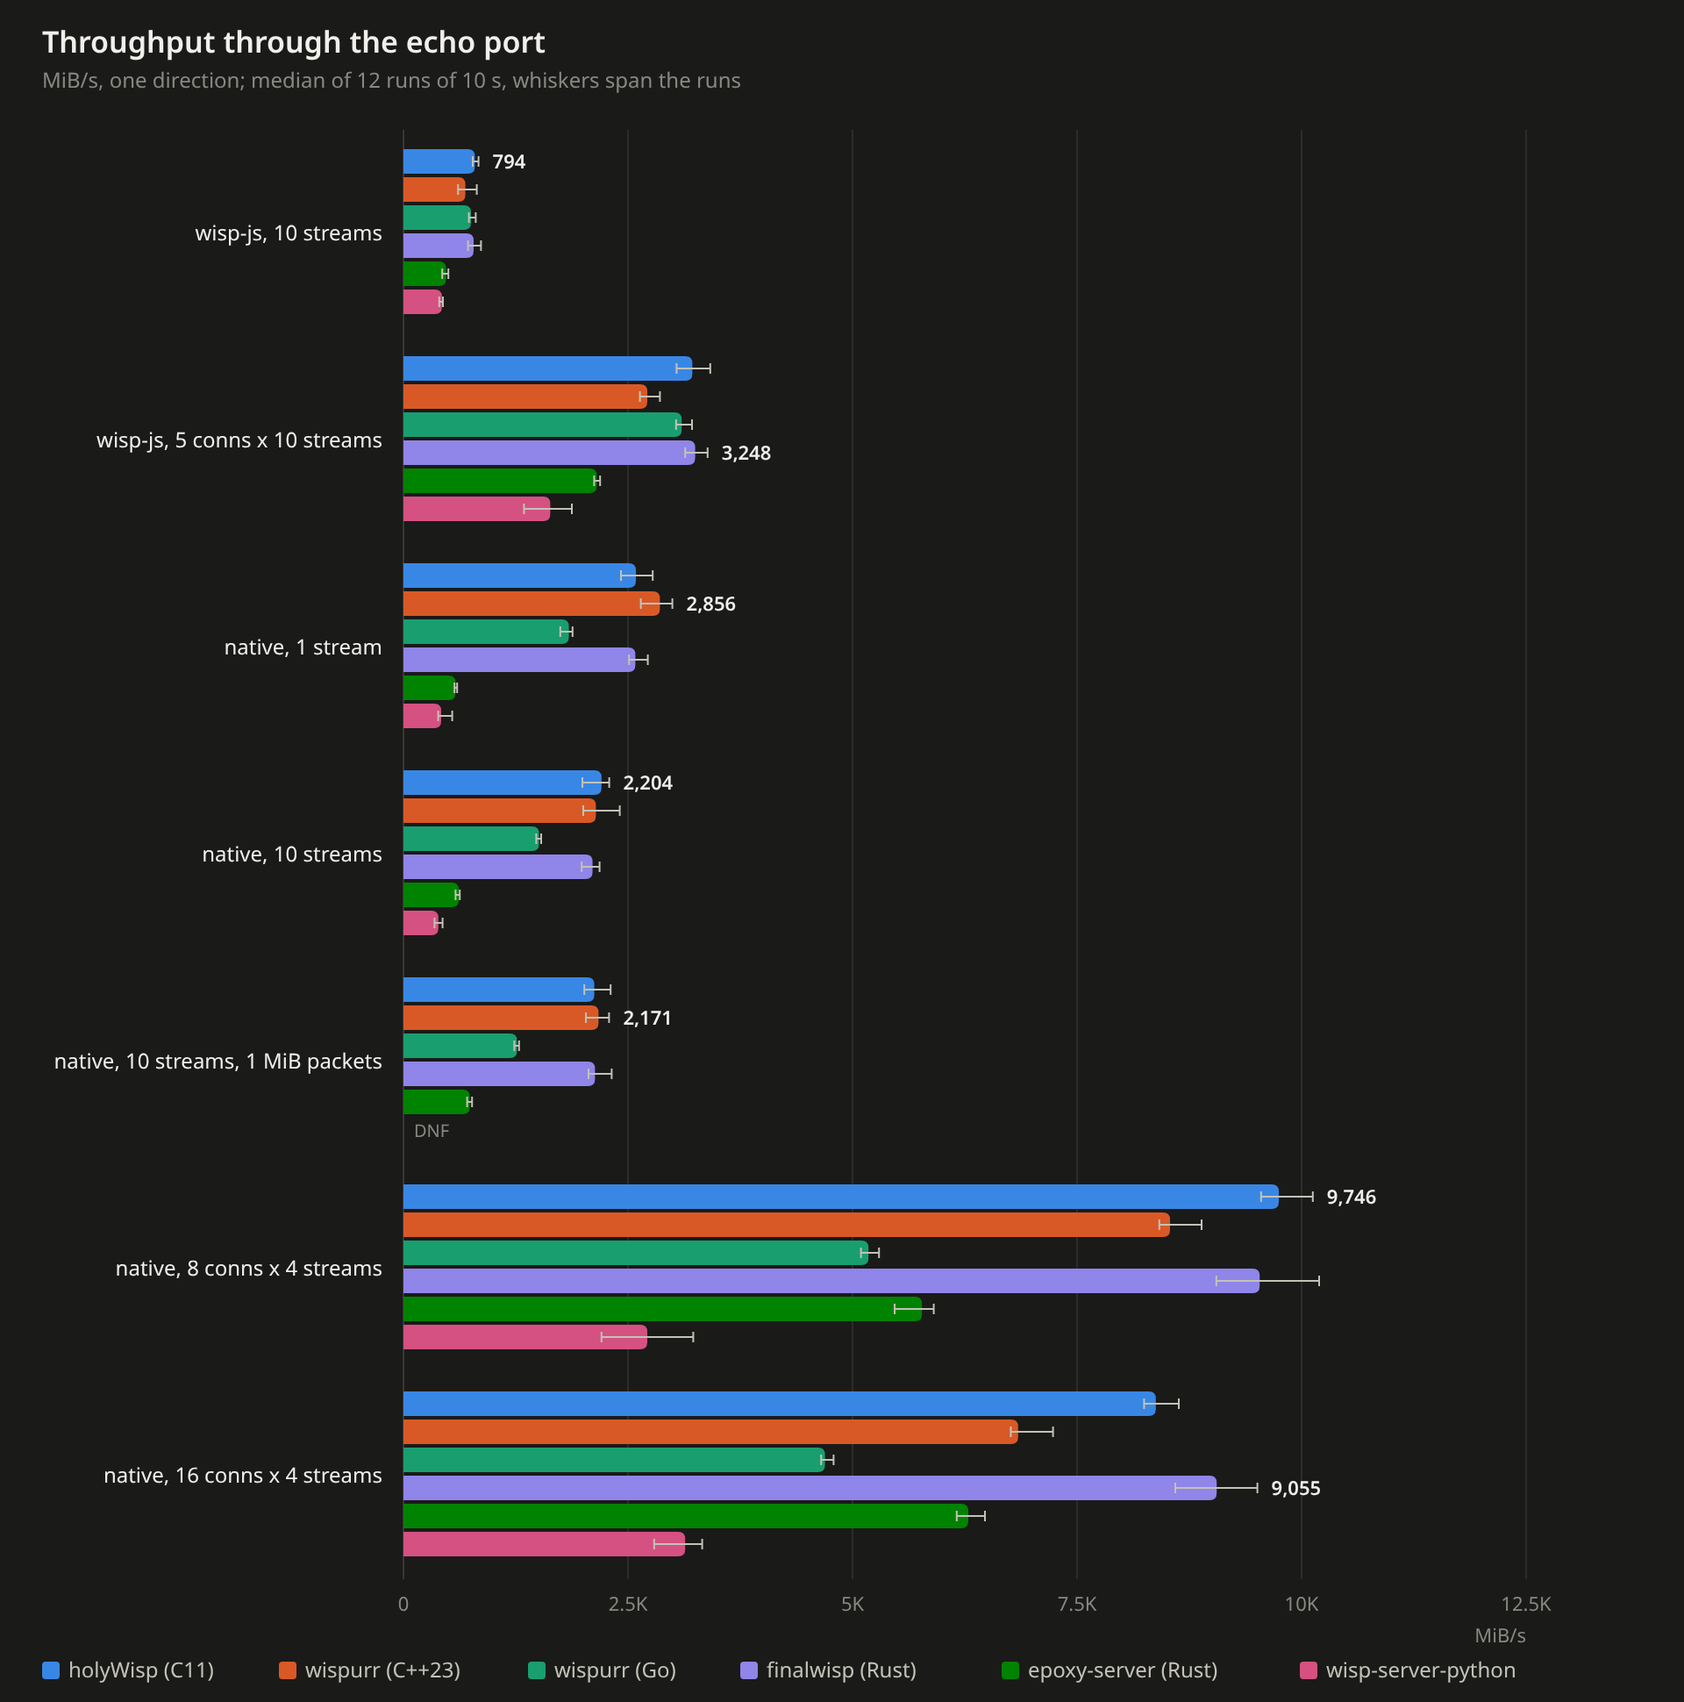
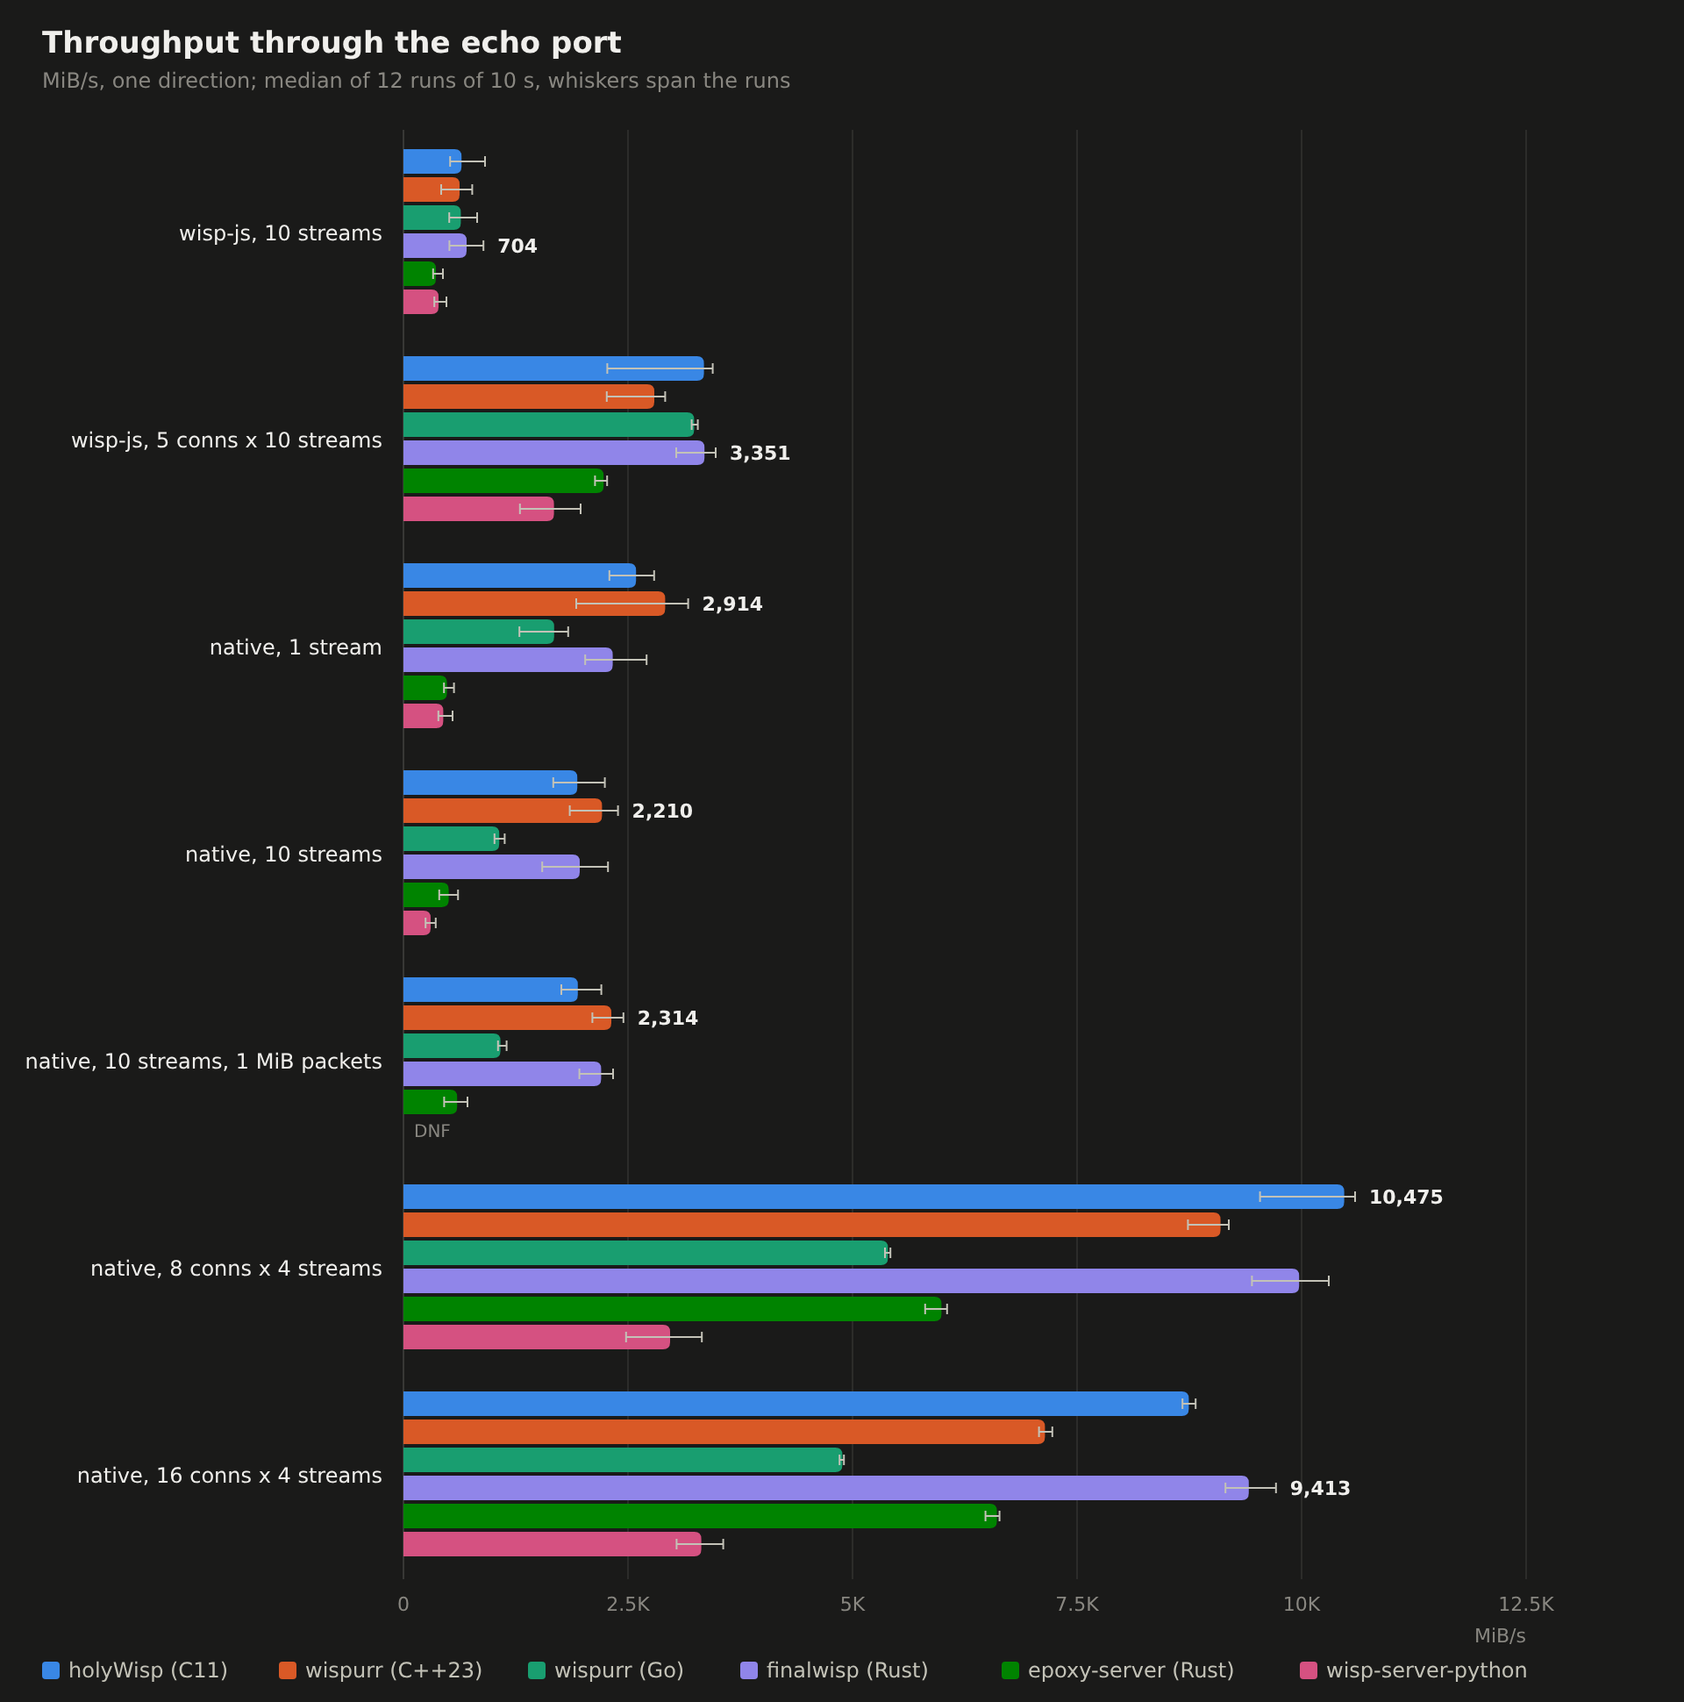
bench: 2026-11-16 run at 978e1d1, six servers, twelve repeats
holyWisp leads with 8 connections (10,475 MiB/s, 5% over finalwisp) and at
stream churn (262,431 lifecycles/s, 10% over the C++23 wispurr). finalwisp
leads with 16 connections by 8%, a row that leaves the shared 16-core host no
idle core: finalwisp's placement leaves five or six of its threads without a
connection and so leaves the clients and the echo more of the box. With
--balance it relays 13% less than holyWisp; holyWisp with --workers=12 relays
4% more than finalwisp. The one-connection rows are bimodal on this host; an
alternating A/B of this build against 09b75bd overlapped in every one of them.
Round trips are 24 to 38 us longer for every server, unchanged binaries
included: the host moved, not the servers.

diff --git a/bench/RESULTS.md b/bench/RESULTS.md
@@ -1,25 +1,41 @@
 # Benchmark results
 
-Run on 2026-11-12 (UTC). Charts for every table below are in `charts/`, light and dark.
+Run on 2026-11-16 (UTC). Charts for every table below are in `charts/`, light and dark.
 The method, the exact server and client command lines, and the install notes for each server are in
 [README.md](README.md). Regenerate with `python3 -I bench/run.py` and `python3 -I bench/charts.py`.
 
 The host was a 16-vCPU KVM guest (Xeon Gold 6348, Debian 13) that ran nothing else. Servers,
 clients and the echo service shared its 16 cores, so the two rows with many connections are bounded
-by the whole box, not by the server alone.
+by the whole box, not by the server alone. With 16 connections the box had no idle time left under
+holyWisp and about one idle core under finalwisp, and how many cores a server's threads take from
+the 16 clients and the echo service decides that row as much as what the server costs per byte.
+finalwisp's default placement leaves five or six of its sixteen threads without a connection; with
+`--balance`, which spreads the connections over all sixteen as holyWisp does, it relayed 7,572 and
+7,672 MiB/s there instead of 9,243 and 9,478 (two runs each, on the same host after this one), and
+holyWisp with `--workers=12` relayed 9,747 to 9,781 against 8,690 to 8,823 with its default of one
+worker per core (three runs each).
 
 Each scenario ran twelve times with the server order rotated, so every one of the six servers held
 every position in the order twice. The position matters on this host (see "Running it" in the
-README), and the latency table shows it most: a 64 B round trip measured 45 to 49 us for the four
-fastest servers when they ran first after the saturating 16-connection scenario, and 52 to 59 us in
-the later positions. The medians in that table are from the later mode.
+README), and the latency table shows it most: a 64 B round trip measured 45 to 52 us for the four
+fastest servers when they ran first after the saturating 16-connection scenario, and 76 to 87 us in
+the later positions (holyWisp twice measured 57 to 58 us there). The medians in that table are from
+the later mode. They are 24 to 38 us longer than in the run of 2026-11-12 for every server, the
+Python one included, with the same kernel and the same server builds apart from holyWisp's: the
+host's round trip changed between the two days, and the table compares servers, not days.
 
-Read differences of a few percent as noise. The rows with one connection are the noisiest: holyWisp's
-native one-stream runs range from 2,422 to 2,776 MiB/s, finalwisp's from 2,511 to 2,721 and the C++23
-wispurr's from 2,642 to 2,993. The rows with 8 and 16 connections repeat within about 5%, except
-finalwisp's 8-connection runs (9,051 to 10,196). In the churn row one of finalwisp's twelve runs
-measured 153,219 lifecycles/s against 236,000 to 279,000 for the rest; the median is not moved by
-it. Compare servers within a row, not numbers across hosts.
+Read differences of a few percent as noise. The rows with one connection are the noisiest:
+holyWisp's native one-stream runs range from 2,293 to 2,792 MiB/s, finalwisp's from 2,022 to 2,708
+and the C++23 wispurr's from 1,925 to 3,169; with 10 streams on one connection holyWisp ranges from
+1,667 to 2,242 and finalwisp from 1,545 to 2,277. holyWisp's medians in those rows are lower than on
+2026-11-12, but eight alternating runs of this build and that one (`09b75bd`) afterwards gave
+overlapping ranges and medians within that noise in all four one-connection rows. The rows with 16
+connections repeat within 6%, except wisp-server-python's. With 8 connections holyWisp's and
+finalwisp's runs span 10% (9,537 to 10,596 and 9,446 to 10,303), and holyWisp's lowest run there,
+like its lowest with five wisp-js connections (2,270 against 2,728 to 3,444 for the rest), was one
+in the first position. In the churn row the two runs in the first position fall well below the rest
+for holyWisp (219,186 and 226,669 against 258,778 to 266,910), the C++23 wispurr and epoxy-server;
+the medians are not moved by them. Compare servers within a row, not numbers across hosts.
 
 The churn scenario dials eight echo ports, one per connection; the README explains why.
 
@@ -28,11 +44,11 @@ epoxy-server runs with its own defaults except for three settings in
 of 1 MiB plus the Wisp header. Its default of 64 KiB is smaller than one 64 KiB packet from the
 native client with its 5-byte header, and it closes the connection on the first one.
 
-holyWisp was a release build of `09b75bd` (0.5.3).
+holyWisp was a release build of `978e1d1` (0.5.3).
 
 | | version |
 | --- | --- |
-| holyWisp | holywisp 0.5.3, `09b75bd`, release build |
+| holyWisp | holywisp 0.5.3, `978e1d1`, release build |
 | finalwisp | 341dcf7a, rustc 1.100.0-nightly (f248f4038 2026-09-05), x86_64-unknown-linux-gnu +crt-static, pool allocator |
 | epoxy-server | epoxy-tls 9cde724 (`server/`), rustc 1.100.0-nightly, `cargo build --release` |
 | wispurr (C++23) | g++ (Debian 14.2.0-19) 14.2.0 |
@@ -50,53 +66,53 @@ Test duration: 10s x 12 (median)
 
 | server | wisp-js, 10 streams | wisp-js, 5 conns x 10 streams | native, 1 stream | native, 10 streams | native, 10 streams, 1 MiB packets | native, 8 conns x 4 streams | native, 16 conns x 4 streams |
 |---|---|---|---|---|---|---|---|
-| holyWisp (C11) | 794 | 3,217 | 2,588 | 2,204 | 2,125 | 9,746 | 8,378 |
-| finalwisp (Rust) | 781 | 3,248 | 2,583 | 2,105 | 2,133 | 9,533 | 9,055 |
-| epoxy-server (Rust) | 474 | 2,153 | 581 | 615 | 739 | 5,773 | 6,289 |
-| wispurr (C++23) | 690 | 2,715 | 2,856 | 2,142 | 2,171 | 8,534 | 6,844 |
-| wispurr (Go) | 752 | 3,098 | 1,843 | 1,510 | 1,263 | 5,178 | 4,693 |
-| wisp-server-python | 427 | 1,634 | 420 | 389 | DNF | 2,715 | 3,137 |
+| holyWisp (C11) | 647 | 3,345 | 2,591 | 1,936 | 1,942 | 10,475 | 8,744 |
+| finalwisp (Rust) | 704 | 3,351 | 2,330 | 1,963 | 2,202 | 9,972 | 9,413 |
+| epoxy-server (Rust) | 361 | 2,229 | 484 | 505 | 598 | 5,990 | 6,608 |
+| wispurr (C++23) | 625 | 2,794 | 2,914 | 2,210 | 2,314 | 9,098 | 7,143 |
+| wispurr (Go) | 639 | 3,236 | 1,678 | 1,067 | 1,081 | 5,395 | 4,886 |
+| wisp-server-python | 391 | 1,676 | 443 | 302 | DNF | 2,969 | 3,317 |
 
 ### Server CPU cores busy during the throughput tests
 
 | server | wisp-js, 10 streams | wisp-js, 5 conns x 10 streams | native, 1 stream | native, 10 streams | native, 10 streams, 1 MiB packets | native, 8 conns x 4 streams | native, 16 conns x 4 streams |
 |---|---|---|---|---|---|---|---|
-| holyWisp (C11) | 0.45 | 1.90 | 0.99 | 1.00 | 0.90 | 4.93 | 4.77 |
-| finalwisp (Rust) | 0.53 | 2.42 | 0.99 | 1.00 | 1.00 | 4.72 | 5.21 |
-| epoxy-server (Rust) | 1.48 | 4.03 | 1.14 | 1.85 | 1.75 | 7.75 | 8.56 |
-| wispurr (C++23) | 0.39 | 1.65 | 0.99 | 0.97 | 0.87 | 4.53 | 5.91 |
-| wispurr (Go) | 1.74 | 4.06 | 1.83 | 2.42 | 2.31 | 8.49 | 8.75 |
-| wisp-server-python | 1.00 | 4.99 | 1.00 | 1.00 | DNF | 6.45 | 8.79 |
+| holyWisp (C11) | 0.42 | 1.88 | 0.99 | 1.00 | 0.92 | 4.91 | 4.65 |
+| finalwisp (Rust) | 0.53 | 2.49 | 0.99 | 1.00 | 1.00 | 4.81 | 5.26 |
+| epoxy-server (Rust) | 1.44 | 4.03 | 1.12 | 1.84 | 1.73 | 7.79 | 8.60 |
+| wispurr (C++23) | 0.40 | 1.67 | 0.97 | 0.99 | 0.92 | 4.58 | 6.01 |
+| wispurr (Go) | 1.68 | 4.10 | 1.80 | 2.41 | 2.24 | 8.54 | 8.78 |
+| wisp-server-python | 1.00 | 4.99 | 1.00 | 1.00 | DNF | 6.99 | 9.39 |
 
 ### MiB relayed per server CPU-second (efficiency)
 
 | server | wisp-js, 10 streams | wisp-js, 5 conns x 10 streams | native, 1 stream | native, 10 streams | native, 10 streams, 1 MiB packets | native, 8 conns x 4 streams | native, 16 conns x 4 streams |
 |---|---|---|---|---|---|---|---|
-| holyWisp (C11) | 1,786 | 1,701 | 2,620 | 2,203 | 2,414 | 2,010 | 1,748 |
-| finalwisp (Rust) | 1,489 | 1,350 | 2,633 | 2,106 | 2,161 | 2,020 | 1,744 |
-| epoxy-server (Rust) | 319 | 534 | 514 | 332 | 422 | 745 | 736 |
-| wispurr (C++23) | 1,810 | 1,655 | 2,878 | 2,189 | 2,466 | 1,903 | 1,158 |
-| wispurr (Go) | 433 | 765 | 1,008 | 624 | 547 | 612 | 539 |
-| wisp-server-python | 427 | 342 | 420 | 390 | DNF | 405 | 355 |
+| holyWisp (C11) | 1,552 | 1,768 | 2,628 | 1,940 | 2,094 | 2,140 | 1,878 |
+| finalwisp (Rust) | 1,321 | 1,362 | 2,361 | 1,958 | 2,206 | 2,070 | 1,824 |
+| epoxy-server (Rust) | 250 | 553 | 432 | 273 | 345 | 770 | 765 |
+| wispurr (C++23) | 1,579 | 1,684 | 2,983 | 2,233 | 2,523 | 1,984 | 1,186 |
+| wispurr (Go) | 380 | 792 | 930 | 442 | 482 | 633 | 555 |
+| wisp-server-python | 391 | 371 | 443 | 302 | DNF | 421 | 354 |
 
 ### Round-trip latency, 64 B echo, one stream (us)
 
 | server | p50 | p90 | p99 | p99.9 | mean | round trips/s |
 |---|---|---|---|---|---|---|
-| holyWisp (C11) | 53.00 | 61.00 | 89.00 | 128 | 55.86 | 17,739 |
-| finalwisp (Rust) | 54.00 | 64.00 | 90.50 | 136 | 55.89 | 17,728 |
-| epoxy-server (Rust) | 58.00 | 67.50 | 92.00 | 136 | 60.05 | 16,505 |
-| wispurr (C++23) | 53.00 | 62.50 | 90.00 | 133 | 55.60 | 17,824 |
-| wispurr (Go) | 80.00 | 102 | 162 | 318 | 84.01 | 11,794 |
-| wisp-server-python | 156 | 174 | 219 | 360 | 154 | 6,434 |
+| holyWisp (C11) | 78.50 | 98.00 | 136 | 311 | 83.33 | 11,909 |
+| finalwisp (Rust) | 81.00 | 100 | 143 | 332 | 85.82 | 11,559 |
+| epoxy-server (Rust) | 85.00 | 106 | 152 | 351 | 89.96 | 11,028 |
+| wispurr (C++23) | 80.00 | 99.50 | 142 | 328 | 85.24 | 11,638 |
+| wispurr (Go) | 118 | 144 | 314 | 612 | 123 | 8,060 |
+| wisp-server-python | 180 | 292 | 554 | 1,010 | 208 | 4,772 |
 
 ### Stream churn (open + 1 B echo + close, lifecycles/s)
 
 | server | stream churn, 8 conns x 32 in flight | server cores | peak RSS MiB |
 |---|---|---|---|
-| holyWisp (C11) | 257,594 | 7.04 | 3.77 |
-| finalwisp (Rust) | 251,411 | 6.46 | 3.38 |
-| epoxy-server (Rust) | 56,915 | 6.10 | 2,085 |
-| wispurr (C++23) | 236,038 | 6.80 | 53.07 |
-| wispurr (Go) | 137,431 | 9.62 | 878 |
-| wisp-server-python | 37,283 | 5.98 | 506 |
+| holyWisp (C11) | 262,431 | 7.03 | 3.96 |
+| finalwisp (Rust) | 229,821 | 6.13 | 3.38 |
+| epoxy-server (Rust) | 60,258 | 6.28 | 2,208 |
+| wispurr (C++23) | 239,041 | 6.78 | 54.96 |
+| wispurr (Go) | 131,966 | 9.60 | 888 |
+| wisp-server-python | 37,884 | 5.98 | 506 |

diff --git a/README.md b/README.md
@@ -294,36 +294,45 @@ server in each row in bold.
 
 | scenario | holyWisp | finalwisp | wispurr C++23 | wispurr Go | epoxy-server | wisp-server-python |
 | --- | --- | --- | --- | --- | --- | --- |
-| wisp-js, 10 streams | **794** | 781 | 690 | 752 | 474 | 427 |
-| wisp-js, 5 connections x 10 streams | 3,217 | **3,248** | 2,715 | 3,098 | 2,153 | 1,634 |
-| native client, 1 stream | 2,588 | 2,583 | **2,856** | 1,843 | 581 | 420 |
-| native client, 10 streams | **2,204** | 2,105 | 2,142 | 1,510 | 615 | 389 |
-| native client, 10 streams, 1 MiB packets | 2,125 | 2,133 | **2,171** | 1,263 | 739 | did not finish |
-| native client, 8 connections x 4 streams | **9,746** | 9,533 | 8,534 | 5,178 | 5,773 | 2,715 |
-| native client, 16 connections x 4 streams | 8,378 | **9,055** | 6,844 | 4,693 | 6,289 | 3,137 |
-| 64 B round trip, p50 / p99 | **53 / 89 us** | 54 / 90.5 us | 53 / 90 us | 80 / 162 us | 58 / 92 us | 156 / 219 us |
-| stream churn, lifecycles/s (server cores) | **257,594** (7.0) | 251,411 (6.5) | 236,038 (6.8) | 137,431 (9.6) | 56,915 (6.1) | 37,283 (6.0) |
-| peak RSS under stream churn | 3.8 MiB | **3.4 MiB** | 53 MiB | 878 MiB | 2,085 MiB | 506 MiB |
+| wisp-js, 10 streams | 647 | **704** | 625 | 639 | 361 | 391 |
+| wisp-js, 5 connections x 10 streams | 3,345 | **3,351** | 2,794 | 3,236 | 2,229 | 1,676 |
+| native client, 1 stream | 2,591 | 2,330 | **2,914** | 1,678 | 484 | 443 |
+| native client, 10 streams | 1,936 | 1,963 | **2,210** | 1,067 | 505 | 302 |
+| native client, 10 streams, 1 MiB packets | 1,942 | 2,202 | **2,314** | 1,081 | 598 | did not finish |
+| native client, 8 connections x 4 streams | **10,475** | 9,972 | 9,098 | 5,395 | 5,990 | 2,969 |
+| native client, 16 connections x 4 streams | 8,744 | **9,413** | 7,143 | 4,886 | 6,608 | 3,317 |
+| 64 B round trip, p50 / p99 | **78.5 / 136 us** | 81 / 143 us | 80 / 142 us | 118 / 314 us | 85 / 152 us | 180 / 554 us |
+| stream churn, lifecycles/s (server cores) | **262,431** (7.0) | 229,821 (6.1) | 239,041 (6.8) | 131,966 (9.6) | 60,258 (6.3) | 37,884 (6.0) |
+| peak RSS under stream churn | 4.0 MiB | **3.4 MiB** | 55 MiB | 888 MiB | 2,208 MiB | 506 MiB |
 
 holyWisp, finalwisp and the C++23 wispurr are the three fastest servers here, and each leads
-somewhere. holyWisp leads with 8 connections by 2% and at opening and closing streams by 2% over
-finalwisp and 9% over the C++23 wispurr; the first is inside finalwisp's spread (9,051 to 10,196
-MiB/s). finalwisp leads with 16 connections by 8%, where all 16 cores are busy. The C++23 wispurr
-leads with one stream by 10%; holyWisp's runs there span 2,422 to 2,776 MiB/s and its 2,642 to
-2,993. With 10 streams, with 1 MiB packets and behind one wisp-js connection the three are within
-each other's spread; with five wisp-js connections holyWisp, finalwisp and the Go wispurr are, and
-the C++23 wispurr is 16% behind. holyWisp, finalwisp, the C++23 wispurr and epoxy-server are within
-5 us of each other on the median round trip, and holyWisp and finalwisp both stay under 4 MiB of
-memory under churn.
+somewhere. holyWisp leads with 8 connections by 5% over finalwisp and 15% over the C++23 wispurr,
+and at opening and closing streams by 10% over the C++23 wispurr and 14% over finalwisp. finalwisp
+leads with 16 connections by 8%. That row leaves no core idle on the host, and it measures how many
+of them a server's threads take from the 16 clients and the echo service as much as the server's
+cost per byte. holyWisp spreads the connections over all sixteen of its workers, and finalwisp's
+default leaves five or six of its sixteen threads without one. Measured afterwards on the same host,
+finalwisp with `--balance`, which spreads them as holyWisp does, relayed 13% less than holyWisp, and
+holyWisp with `--workers=12` 4% more than finalwisp ([bench/RESULTS.md](bench/RESULTS.md)). The
+C++23 wispurr leads on one native connection: by 12% with one stream, 13% with 10 streams and 5%
+with 1 MiB packets over the next server. Those rows are bimodal on this host (holyWisp's 10-stream
+runs span 1,667 to 2,242 MiB/s), and holyWisp's lower medians there than on 2026-11-12 are not a
+regression: eight alternating runs of this build and the one measured then gave overlapping ranges
+and medians within noise in every one-connection row. Behind five wisp-js connections finalwisp and
+holyWisp are within 1% of each other and the Go wispurr 3% behind them; behind one, the four fastest
+servers' runs overlap (holyWisp's span 519 to 908 MiB/s, finalwisp's 511 to 891). holyWisp,
+finalwisp, the C++23 wispurr and epoxy-server are within 7 us of each other on the median round
+trip, and holyWisp and finalwisp both stay under 4 MiB of memory under churn.
 
-epoxy-server, the Rust server that epoxy's Wisp client is made for, relays 59 to 69% of the
-leader's throughput with several connections, a fifth to a third of it on one connection, and a
-fifth of the leader's streams per second under churn. It relays 320 to 750 MiB per CPU-second
-where holyWisp relays 1,700 to 2,600, and its memory reached 2 GiB under churn.
+epoxy-server, the Rust server that epoxy's Wisp client is made for, relays 57 to 70% of the
+leader's throughput with several connections, a sixth to a quarter of it with the native client on
+one connection, and under a quarter of the leader's streams per second under churn. It relays 250 to
+770 MiB per CPU-second where holyWisp relays 1,550 to 2,630, and its memory passed 2 GiB under churn.
 
-The round-trip figure depends on where in the run order a server was measured;
-[bench/RESULTS.md](bench/RESULTS.md) breaks that down. Results move with the host: an earlier run
-on a desktop Ryzen 9 7950X ranked several of these rows differently.
+The round-trip figure depends on where in the run order a server was measured, and on the day: every
+server's median is 24 to 38 us longer than in the run of 2026-11-12, the servers that did not change
+included. [bench/RESULTS.md](bench/RESULTS.md) breaks that down. Results move with the host: an earlier
+run on a desktop Ryzen 9 7950X ranked several of these rows differently.
 
 <picture>
   <source media="(prefers-color-scheme: dark)" srcset="bench/charts/throughput-dark.png">
